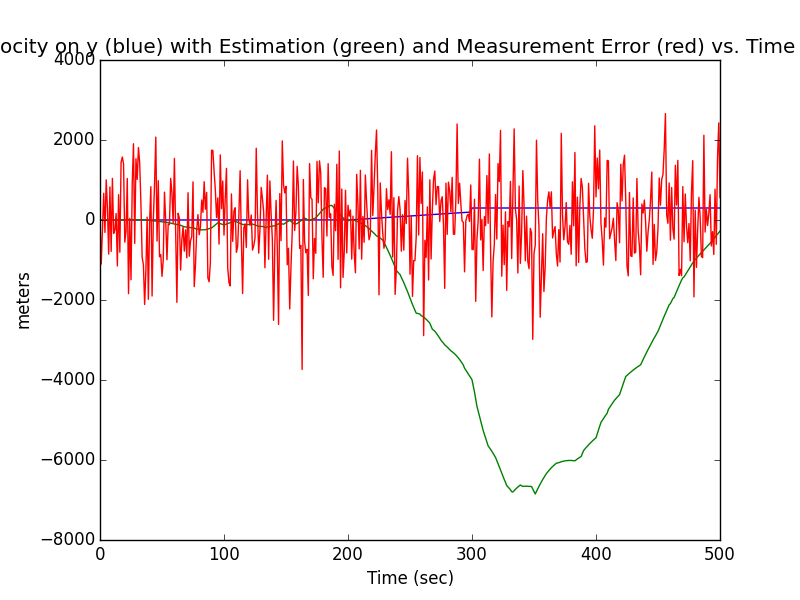
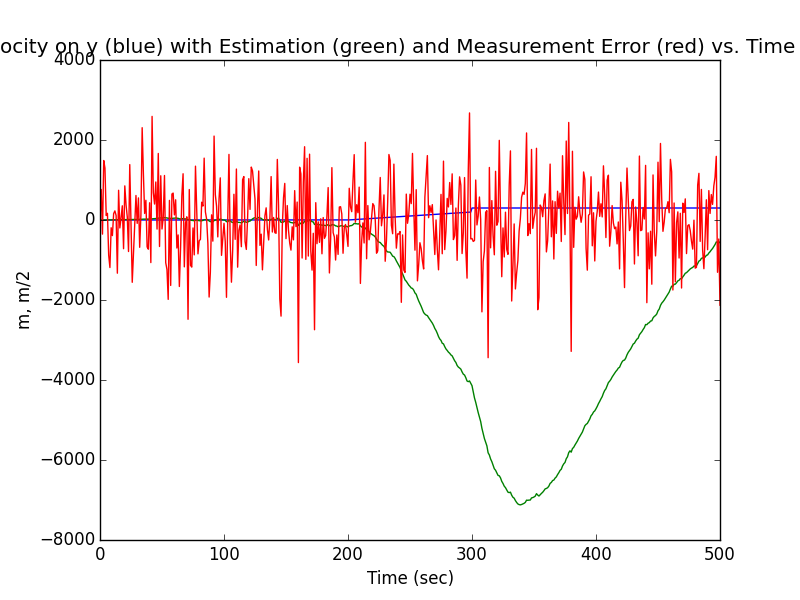
init Question 1 and 2 .py

diff --git a/kalman.py b/kalman.py
@@ -242,7 +242,7 @@ def kalmanFilter(T=1, variance_w=.3*.3, accel_variance=.3*.3, variance_v=1000*10
 		plt.plot(list(range(len(trueTrajectoryArray))),  estimationErrorX)
 		plt.plot(list(range(len(trueTrajectoryArray))),  measurementErrorX)
 		plt.xlabel("Time (sec)")
-		plt.ylabel("meters")
+		plt.ylabel("m, m/s")
 		plt.title("Velocity on x (blue) with Estimation (green) and Measurement Error (red) vs. Time (sec)")
 		plt.savefig('{}_velocity_along_x_est_err.png'.format(prefix))
 
@@ -252,7 +252,7 @@ def kalmanFilter(T=1, variance_w=.3*.3, accel_variance=.3*.3, variance_v=1000*10
 		plt.plot(list(range(len(trueTrajectoryArray))),  estimationErrorY)
 		plt.plot(list(range(len(trueTrajectoryArray))),  measurementErrorY)
 		plt.xlabel("Time (sec)")
-		plt.ylabel("meters")
+		plt.ylabel("m, m/2")
 		plt.title("Velocity on y (blue) with Estimation (green) and Measurement Error (red) vs. Time (sec)")
 		plt.savefig('{}_velocity_along_y_est_err.png'.format(prefix))
 
@@ -264,32 +264,32 @@ def kalmanFilter(T=1, variance_w=.3*.3, accel_variance=.3*.3, variance_v=1000*10
 
 
 if __name__ == "__main__":
-	errorRatio = kalmanFilter(graph=True, prefix='2b')
-	print(errorRatio)
+  # # 2a) plots
+  errorRatio = kalmanFilter(graph=True, prefix='2a', variance_w=.3*.3)
+  print(errorRatio)
 
-	# 2b) try some variance_w to see the effects 
-	# variance_w_list=[.003, .03, .3, 3, 30, 300, 3000, 30000]
-	# for variance in variance_w_list:
-	# 	errorRatio = kalmanFilter(variance_w=variance, graph=False)
-	# 	print('For variance_w {} the error ratio is {}'.format(variance, errorRatio))
+  #2b)
+  # errorRatio = kalmanFilter(graph=True, prefix='2b', variance_w=.3*.3)
+  # print(errorRatio)
 
-	# errorRatio = kalmanFilter(variance_w=3000)
+  # 2c) try a very small variance_v
+  # errorRatio = kalmanFilter(graph=True, prefix='2c',variance_v = 1000)
+  # print(errorRatio)
 
-	# 2c) try a very small variance_v
-	# this made the model to assume a smaller variance_v 
-	# errorRatio = kalmanFilter(variance_v = 1)
+  # 2d) try variance_v = 1, variance_w = 1, initialState = [0, -100, 0, -100]
+  # errorRatio = kalmanFilter(graph=True, prefix='2d',initialState = [0,-100,0,-100] )
+  # print(errorRatio)
+  # errorRatio = kalmanFilter(graph=True, prefix='2d_identity_covariance',variance_v = 1, variance_w = 1,initialState = [0,-100,0,-100] )
+  # print(errorRatio)
 
-	# 2d) try variance_v = 1, variance_w = 1, initialState = [0, -100, 0, -100]
-	# errorRatio = kalmanFilter(variance_v = 1, variance_w = 1, initialState = [0,-100,0,-100])
+  #2e) tune 2d) via  until it looks good
+  # errorRatio = kalmanFilter(graph=True, prefix='2e',variance_v = 1000*1000, variance_w = 3*3,initialState = [0,-100,0,-100] )
+  # print(errorRatio)
 
-	# 2e) try poor sensorProbability = 0.5, sensor fails so often that sensor coudn't track correctly unless very little change/ no change in position. Errors are magnified when x or y moves, and it takes a lot longer than before until tracking goes back on right track
-	# errorRatio = kalmanFilter(sensorProbability = 0.5)
-	# print(errorRatio)
-	# errorRatio = kalmanFilter(sensorProbability = 1.0)
-	# print(errorRatio)
+  plt.show()
 
 
-	plt.show()
+
 
 
 

diff --git a/Question2.py b/Question2.py
@@ -1,0 +1,28 @@
+import kalman
+import matplotlib.pyplot as plt
+
+if __name__ == "__main__":
+  # 2a) plots
+  errorRatio = kalman.kalmanFilter(graph=True, prefix='2a', variance_w=.3*.3)
+  print(errorRatio)
+
+  #2b)
+  errorRatio = kalman.kalmanFilter(graph=True, prefix='2b', variance_w=3000*3000)
+  print(errorRatio)
+
+  # 2c) try a very small variance_v
+  errorRatio = kalman.kalmanFilter(graph=True, prefix='2c',variance_v = 1000)
+  print(errorRatio)
+
+  # 2d) try variance_v = 1, variance_w = 1, initialState = [0, -100, 0, -100]
+  errorRatio = kalman.kalmanFilter(graph=True, prefix='2d',initialState = [0,-100,0,-100] )
+  print(errorRatio)
+  errorRatio = kalman.kalmanFilter(graph=True, prefix='2d_identity_covariance',variance_v = 1, variance_w = 1,initialState = [0,-100,0,-100] )
+  print(errorRatio)
+
+  #2e) tune 2d) via  until it looks good
+  errorRatio = kalman.kalmanFilter(graph=True, prefix='2e',variance_v = 1000*1000, variance_w = 3*3,initialState = [0,-100,0,-100] )
+  print(errorRatio)
+
+  #2f) assume faulty sensor
+  errorRatio = kalman.kalmanFilter(graph=True, prefix='2f', sensorProbability = 0.25)

diff --git a/simulation.py b/simulation.py
@@ -63,7 +63,7 @@ def generateGroundTruth():
 
 	return groundTruth
 
-def generateDataWithMatrices(T=1., measurementNoise=([0,0], [[1000,0],[0,1000]])):
+def generateDataWithMatrices(T=1., measurementNoise=([0,0], [[1000*1000,0],[0,1000*1000]])):
 
 	##len 501 array of 4x1 Matrices
 
@@ -177,7 +177,7 @@ def plotGroundTruth():
 	# pylab.xlabel('Iteration')
 	# pylab.ylabel('Voltage')
 
-def generateNoisyMeasurementsFromGroundTruthData(groundTruthData, measurementNoise=([0,0], [[1000,0],[0,1000]])):
+def generateNoisyMeasurementsFromGroundTruthData(groundTruthData, measurementNoise=([0,0], [[1000*1000,0],[0,1000*1000]])):
 
 	noisyPositionData = groundTruthData[:,[0,2]] + np.random.multivariate_normal(measurementNoise[0], measurementNoise[1], len(groundTruthData))
 	

diff --git a/test.py b/test.py
@@ -1,3 +1,13 @@
 import random
+import numpy as np
 
 print (random.random())
+print (np.identity(2)*89)
+
+accel_variance = 1
+pooo = np.array([m.T for m in np.matrix(np.random.multivariate_normal([0,0], np.identity(2)*accel_variance, 10))])
+
+print (pooo)
+
+xhat = np.empty(10, dtype=np.dtype(object))
+print (xhat)

diff --git a/Question1.py b/Question1.py
@@ -1,0 +1,4 @@
+import simulation as s
+
+if __name__ == "__main__":
+  s.plotGroundTruthAndNoisyMeasureMentData()
